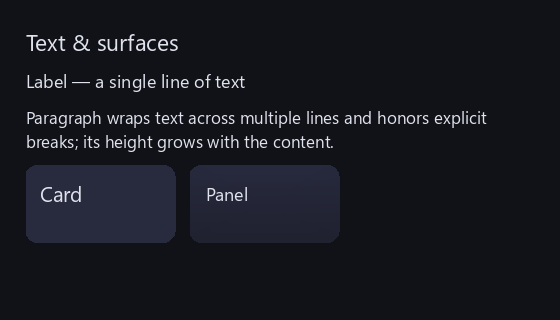
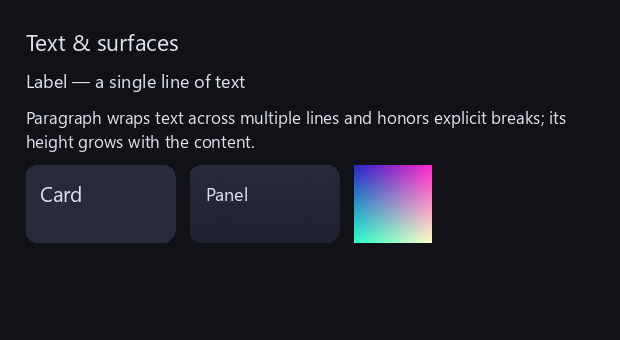
docs(#7): screenshot the remaining widgets (Modal/Image/ScrollView/ColorPickerPad)
Address PR review — the acceptance wants every built-in widget in a screenshot,
and four were documented in prose only. All are renderable headless:

- Modal: use the correct Overlay::setContent() API (my earlier attempt wrongly
  used emplace, so content wasn't centered). New cat-modal board — a centered
  dialog dimming the page.
- Image: render a procedurally-generated RGBA gradient (buffer + handle persist
  across the capture frames) in the surfaces board.
- ScrollView: add to the data board with a long Paragraph that overflows → a
  scrollbar.
- ColorPickerPad: add beside ColorField in the inputs board (row cross=Start so
  the ColorField keeps its natural size).

Update the catalog captions + the Image/Modal entries to reference the new shots.
Every built-in widget now appears in a screenshot.

Verified: all boards render correctly (checked visually); mkdocs build --strict
passes.

Changed region(s): [[0.0304, 0.3125, 0.9107, 0.7812], [0.0304, 0.2188, 0.4554, 0.2812], [0.0304, 0.0938, 0.3339, 0.1562]]

diff --git a/tools/capture/capture.cpp b/tools/capture/capture.cpp
@@ -221,7 +221,12 @@ static void sceneCatInputs(Context& ctx) {
     ta->prefH = 68;
     auto* cb = root->emplace<Combo>(std::vector<std::string>{"Small", "Medium", "Large"}, 1);
     cb->prefW = 220;
-    root->emplace<ColorField>(Color{96, 126, 205});
+    auto* colors = row(root.get(), 16);
+    colors->cross = Align::Start; // don't stretch the ColorField to the pad's height
+    colors->emplace<ColorField>(Color{96, 126, 205});
+    auto* pad = colors->emplace<ColorPickerPad>(Color{96, 126, 205});
+    pad->prefW = 200;
+    pad->prefH = 150;
     ctx.setRoot(std::move(root));
 }
 
@@ -243,6 +248,23 @@ static void sceneCatText(Context& ctx) {
     p->prefW = 150;
     p->prefH = 78;
     column(p, 16, 6)->emplace<Label>("Panel", 1.4f);
+    // Image: a procedurally-generated RGBA gradient (buffer + handle persist across
+    // the capture frames so the one-time upload survives).
+    static unsigned char imgPix[72 * 72 * 4];
+    static ImageHandle imgHandle = 0;
+    for (int y = 0; y < 72; ++y)
+        for (int x = 0; x < 72; ++x) {
+            int i = (y * 72 + x) * 4;
+            imgPix[i] = (unsigned char)(x * 3 + 40);
+            imgPix[i + 1] = (unsigned char)(y * 3 + 40);
+            imgPix[i + 2] = 200;
+            imgPix[i + 3] = 255;
+        }
+    auto* img = r->emplace<Image>();
+    img->pixels = imgPix;
+    img->srcW = img->srcH = 72;
+    img->drawW = img->drawH = 78;
+    img->handle = &imgHandle;
     ctx.setRoot(std::move(root));
 }
 
@@ -268,6 +290,15 @@ static void sceneCatData(Context& ctx) {
     tv->addRoot("README.md");
     tv->rebuild();
     tv->prefH = 128;
+    auto* svCol = labeledPanel(top, "ScrollView", 236, 178);
+    auto* sv = svCol->emplace<ScrollView>();
+    sv->setContent(std::make_unique<Paragraph>(
+        "A ScrollView is a fixed viewport over taller content — drag the scrollbar "
+        "or use the wheel. This text is intentionally long so it overflows and a "
+        "scrollbar appears on the right edge of the viewport.",
+        1.2f));
+    sv->prefW = 200;
+    sv->prefH = 128;
 
     auto* bot = row(root.get(), 14);
     auto* tbCol = labeledPanel(bot, "Table", 300, 168);
@@ -280,6 +311,32 @@ static void sceneCatData(Context& ctx) {
     tab->tabs = {"Files", "Search", "Git"};
     tab->active = 0;
     ctx.setRoot(std::move(root));
+}
+
+static void sceneCatModal(Context& ctx) {
+    auto root = std::make_unique<Box>();
+    root->axis = Axis::Column;
+    root->padding = Edges(24);
+    root->spacing = 10;
+    root->emplace<Label>("Files", 1.8f);
+    auto* p = root->emplace<Panel>();
+    p->grow = 1.0f;
+    ctx.setRoot(std::move(root));
+
+    // A Modal centers host-arranged content (via setContent) and dims the page.
+    auto modal = std::make_unique<Modal>();
+    auto body = std::make_unique<Box>();
+    body->axis = Axis::Column;
+    body->padding = Edges(22);
+    body->spacing = 12;
+    body->prefW = 300;
+    body->emplace<Label>("Delete file?", 1.6f);
+    body->emplace<Paragraph>("This can't be undone.", 1.3f);
+    auto* btns = row(body.get(), 10);
+    btns->emplace<Button>("Cancel", [] {});
+    btns->emplace<Button>("Delete", [] {});
+    modal->setContent(std::move(body));
+    ctx.addOverlay(std::move(modal));
 }
 
 static void sceneCatNotify(Context& ctx) {
@@ -417,9 +474,10 @@ int main(int argc, char** argv) {
         {"menu-dark", 720, 460, &dark, sceneMenu},
         // Widget-catalog boards (#7)
         {"cat-controls", 560, 430, &dark, sceneCatControls},
-        {"cat-inputs", 560, 400, &dark, sceneCatInputs},
-        {"cat-text", 560, 320, &dark, sceneCatText},
-        {"cat-data", 640, 470, &dark, sceneCatData},
+        {"cat-inputs", 580, 560, &dark, sceneCatInputs},
+        {"cat-text", 620, 340, &dark, sceneCatText},
+        {"cat-data", 760, 470, &dark, sceneCatData},
+        {"cat-modal", 620, 400, &dark, sceneCatModal},
         {"cat-notify", 560, 320, &dark, sceneCatNotify},
     };
 

diff --git a/docs/widgets/index.md b/docs/widgets/index.md
@@ -17,7 +17,7 @@ tree with `parent->emplace<T>(args…)` (see [Layout](../guides/layout.md)).
 
 ## Text & surfaces
 
-![Label, Paragraph, Card, and Panel rendered in the dark theme](../assets/cat-text.png)
+![Label, Paragraph, a Card, a Panel, and an Image rendered in the dark theme](../assets/cat-text.png)
 
 **`Label`** — a single line of text, sized to its content. `text`, `scale`.
 
@@ -50,8 +50,10 @@ auto* bar = box->emplace<ProgressBar>();
 bar->value = 0.6f;
 ```
 
-**`Image`** — draws an RGBA image uploaded through the renderer (`Renderer::loadImage`).
-`drawW` / `drawH` set the display size. (Not shown above — it needs pixel data.)
+**`Image`** — draws an RGBA image uploaded through the renderer. Point `pixels` at a
+tightly-packed RGBA8 buffer with `srcW`/`srcH`, set the display size with `drawW`/`drawH`,
+and give it a caller-owned `handle` (the upload is cached there across rebuilds). `tint`
+modulates it. Shown as the gradient square above.
 
 ## Buttons & controls
 
@@ -97,7 +99,7 @@ s->onChange = [](float v) { /* … */ };
 
 ## Text input & selection
 
-![A TextField, a TextField with placeholder, a TextArea, a Combo, and a ColorField](../assets/cat-inputs.png)
+![A TextField, a placeholder TextField, a TextArea, a Combo, a ColorField, and a ColorPickerPad](../assets/cat-inputs.png)
 
 **`TextField`** — single-line editing (selection, clipboard, undo). `placeholder`,
 `onChange(text)`, `onSubmit()` (Enter). Construct with initial text.
@@ -132,7 +134,7 @@ cf->onChange = [](Color c) { /* … */ };
 
 ## Data containers
 
-![ListView, TreeView, a sortable Table, and a TabBar](../assets/cat-data.png)
+![ListView, TreeView, a ScrollView, a sortable Table, and a TabBar](../assets/cat-data.png)
 
 All the list-like widgets share a virtualized base (`VirtualList`): they render only
 visible rows, support keyboard navigation and `multiSelect`, and expose `selected` +
@@ -207,8 +209,10 @@ menu->addItem("Delete", [] { /* … */ });
 ctx.addOverlay(std::move(menu));
 ```
 
-**`Modal`** — centered content that dims the background with the `scrim` token;
-dismiss on outside-click / Escape (configurable).
+**`Modal`** — centered content (set via `setContent(...)`) that dims the background
+with the `scrim` token; dismiss on outside-click / Escape (configurable).
+
+![A modal dialog centered over a dimmed page](../assets/cat-modal.png)
 
 **`Tooltip`** — a small bubble shown at an anchor. Hover tooltips are automatic: set
 any widget's `tooltip` field and `Context` shows one after a hover delay.

diff --git a/docs/assets/README.md b/docs/assets/README.md
@@ -46,4 +46,5 @@ every asset into this directory, and assembles the GIF.
 | `cat-controls.png` | Widget catalog: buttons & controls | dark |
 | `cat-inputs.png` | Widget catalog: text input & selection | dark |
 | `cat-data.png` | Widget catalog: data containers | dark |
+| `cat-modal.png` | Widget catalog: a modal dialog | dark |
 | `cat-notify.png` | Widget catalog: tooltip & toast overlays | dark |